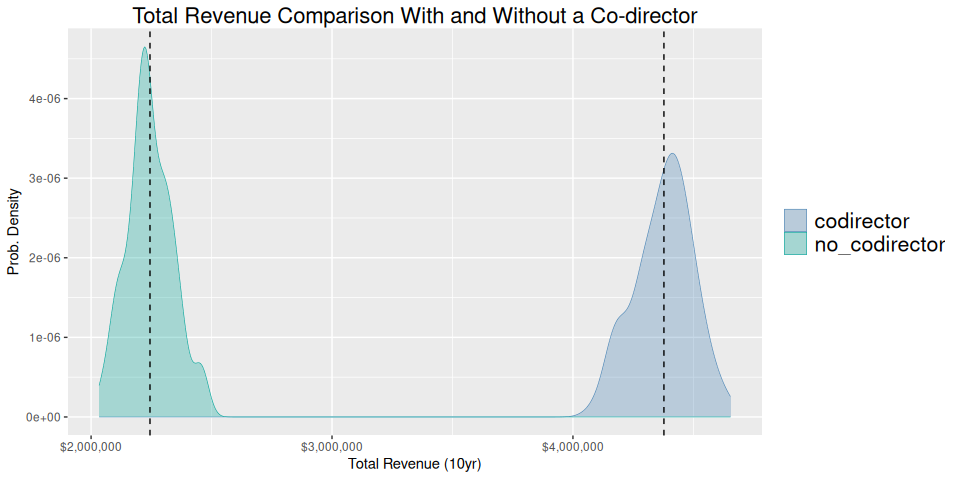
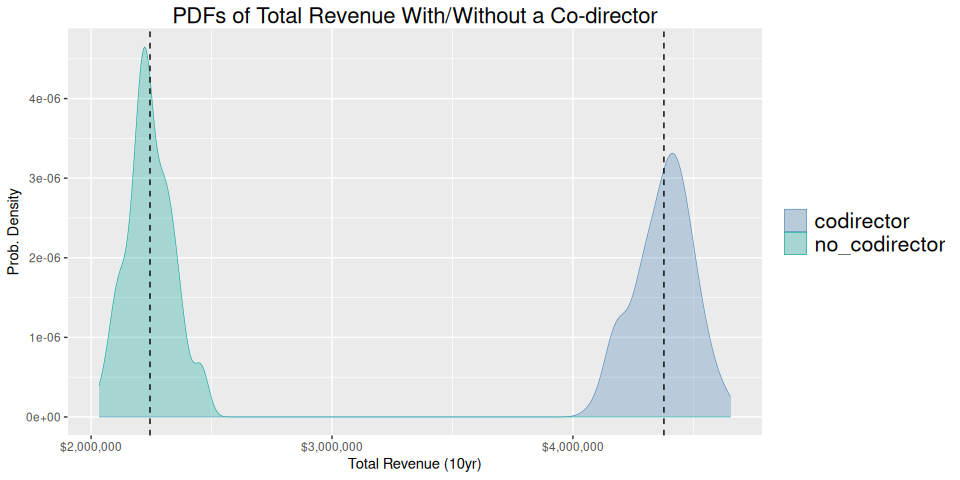
Tweak figure titles and sync script-README code

Changed region(s): [[0.125, 0.0, 0.7188, 0.0625]]

diff --git a/README.md b/README.md
@@ -74,7 +74,7 @@ sim_projection <- function(with_codirector = TRUE, n_years = 10L,
 Now we run 100 simulations of 10 years each, with and without a
 co-director and compare the total revenue to the university under each
 scenario. Simulations beyond 100 yielded similar conclusions with
-respect to total revenue.
+respect to total cumulative revenue.
 
 ``` r
 # no. simulations
@@ -100,7 +100,7 @@ plot_df |>
   scale_y_continuous(labels = scales::dollar) +
   scale_x_continuous(n.breaks = max(plot_df$year)) +
   guides(color = guide_legend(override.aes = list(size = 5, alpha = 1))) +
-  labs(title = "Revenue Comparison With/Without MS-ART Co-director",
+  labs(title = "Revenue Projections With/Without MS-ART Co-director",
        x = "Year", y = "Total Revenue") +
   NULL
 ```
@@ -134,9 +134,8 @@ data.frame(split_revenue) |>
   gather(key = "type") |>
   ggplot(aes(x = value, color = type)) +
   geom_density(aes(fill = type), alpha = 0.3, linewidth = 0.2) +
-  labs(
-    title = "Total Revenue Comparison With and Without a Co-director",
-    y = "Prob. Density", x = "Total Revenue (10yr)") +
+  labs(title = "PDFs of Total Revenue With/Without a Co-director",
+       y = "Prob. Density", x = "Total Revenue (10yr)") +
   scale_fill_manual(values = c("steelblue", "#00A499")) +
   scale_color_manual(values = c("steelblue", "#00A499")) +
   scale_x_continuous(labels = scales::dollar) +
